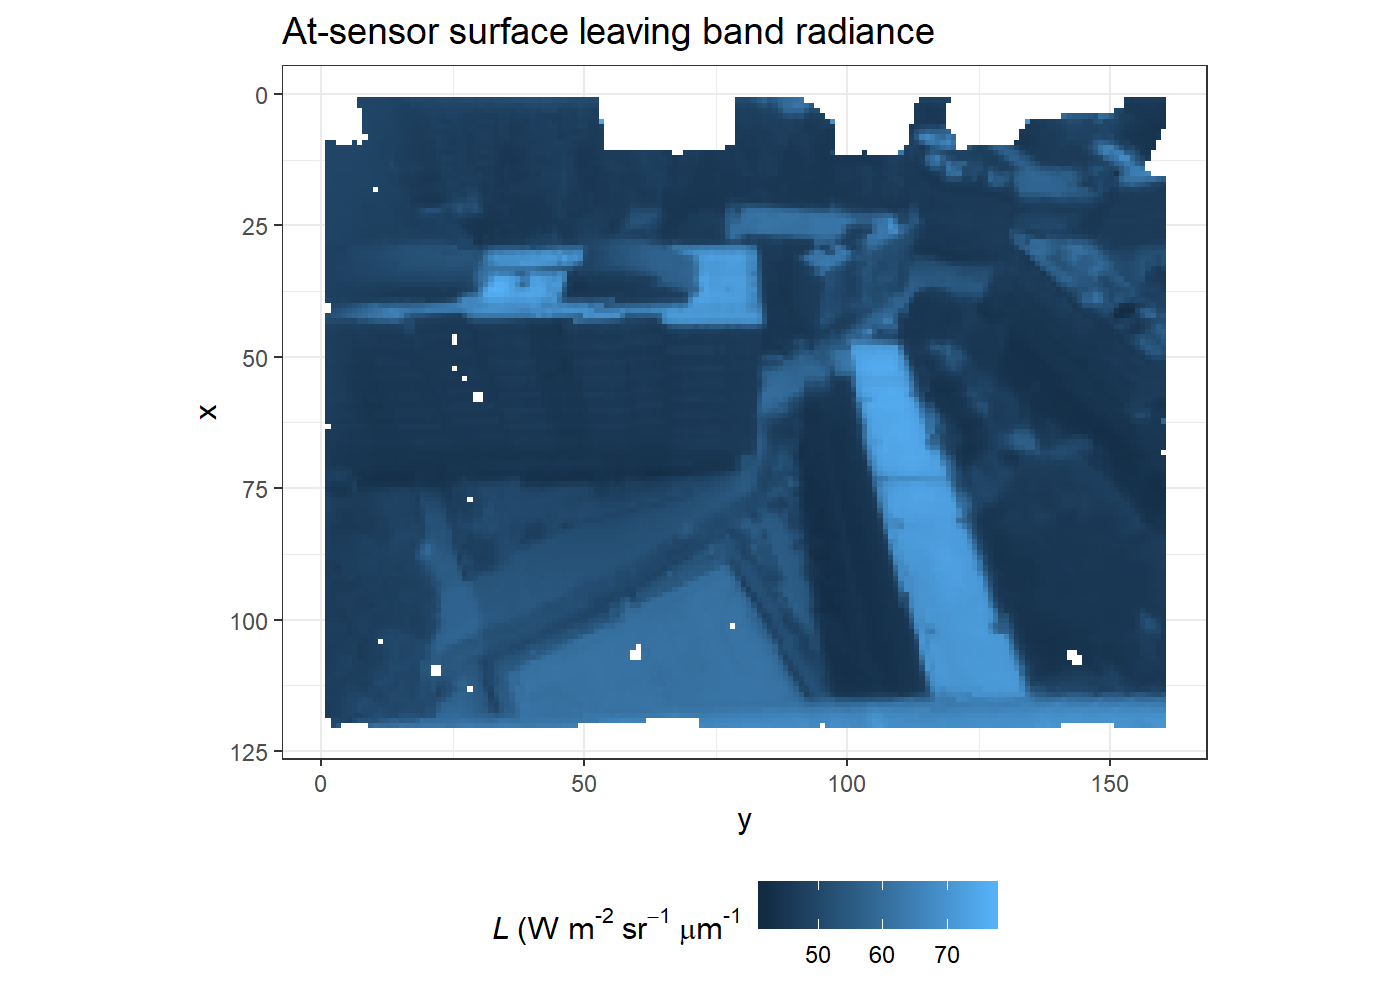
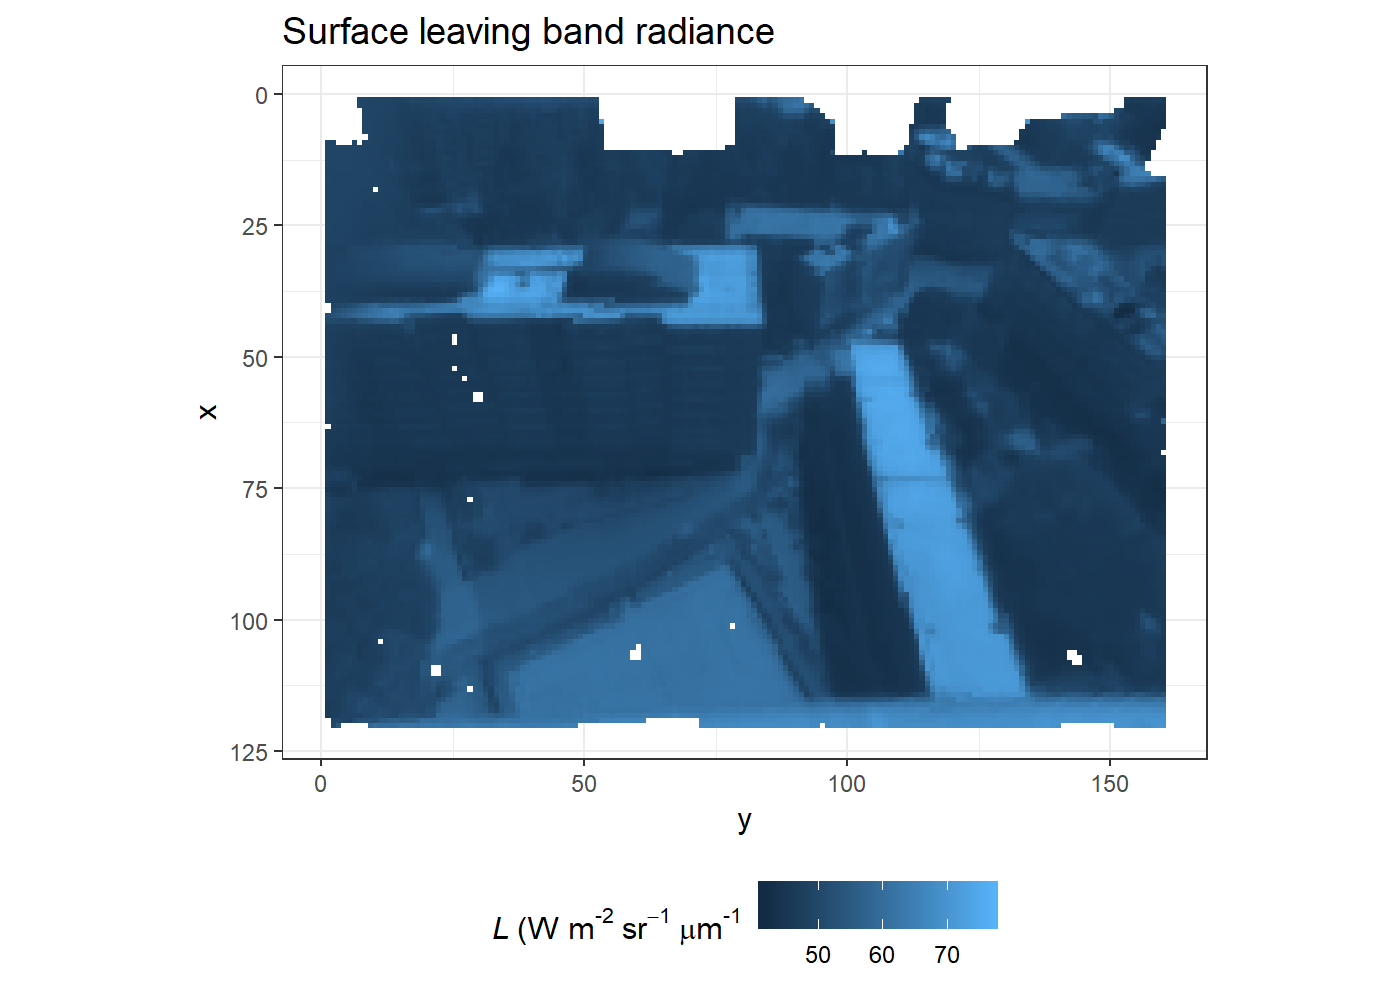
wrong title

Changed region(s): [[0.1843, 0.0, 0.6757, 0.062]]

diff --git a/tutorials/Band-calculation/README.md b/tutorials/Band-calculation/README.md
@@ -109,7 +109,7 @@ ggplot(bandRadDF %>% filter(between(bandValue, 30, 85))) +
   theme_bw() +
   coord_flip() +
   scale_x_reverse() +
-  ggtitle("At-sensor surface leaving band radiance") +
+  ggtitle("Surface leaving band radiance") +
   labs(fill = expression(italic(L)~"(W m"^"-2"~sr^-1~mu*m^"-1")) +
   theme(aspect.ratio = 120 / 160) +
   theme(legend.position = "bottom")
